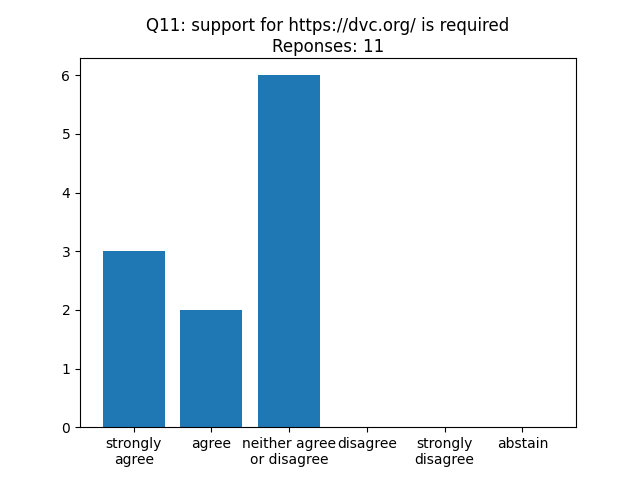
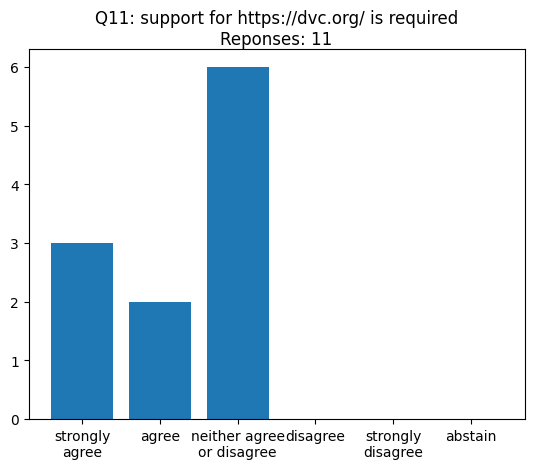
better plots

diff --git a/gen_plot.py b/gen_plot.py
@@ -11,5 +11,5 @@ for p in data:
     single_data = p[3:].astype(np.int)
     plt.bar([0,1,2,3,4,5], single_data, tick_label=boxes)
     plt.title("Q" +  str(id) + ": " + title + "\nReponses: " + str(total), wrap=True)
-    plt.savefig("plots/" + str(id))
+    plt.savefig("plots/" + str(id), bbox_inches='tight')
     plt.close()
